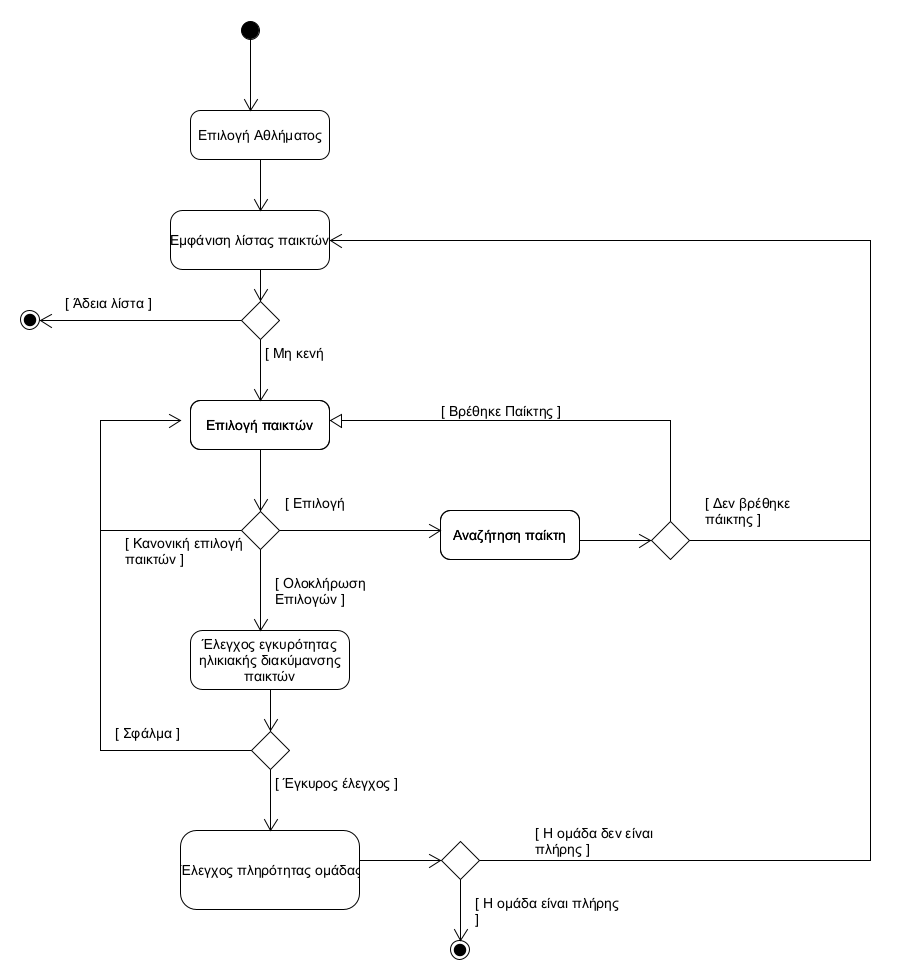
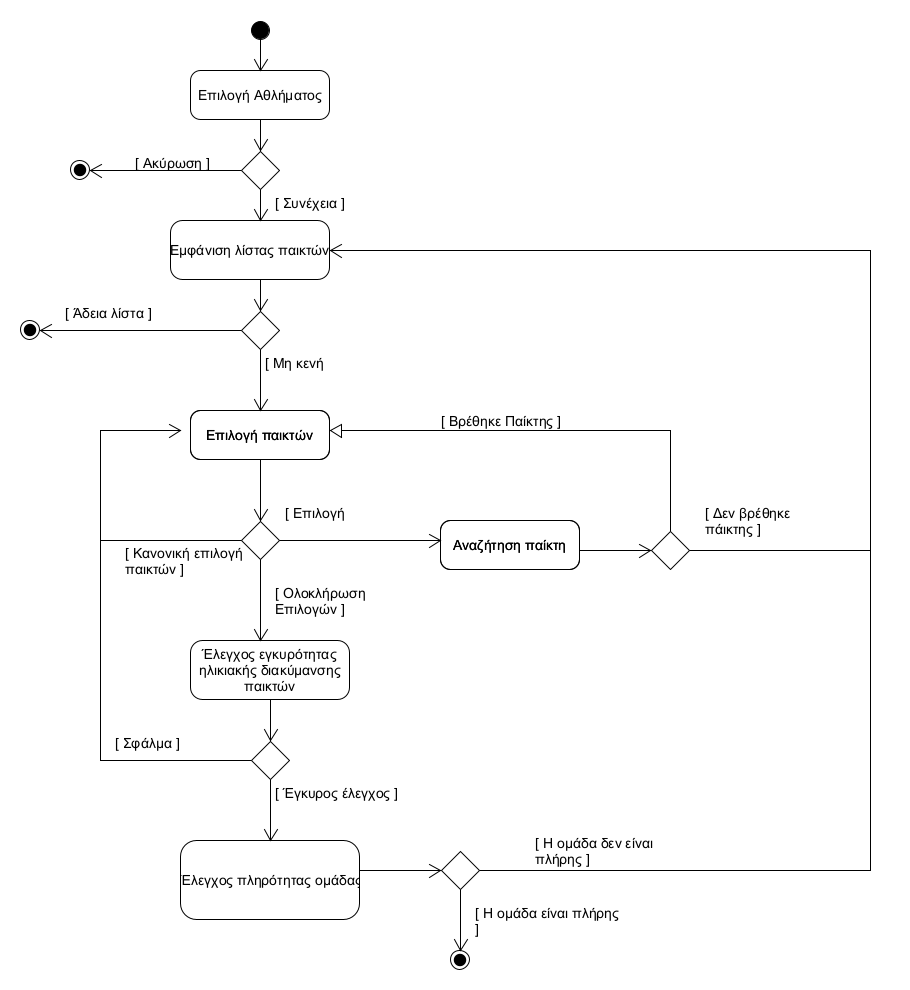
modify some scenarios

diff --git a/docs/markdown/uc9-team-creation.md b/docs/markdown/uc9-team-creation.md
@@ -27,6 +27,9 @@
 
 **Εναλλακτικές Ροές**
 
+*1α. Ο αντιπρόσωπος επιλέγει ακύρωση, στην δημιουργία ομάδας.*
+1. Η περίπτωση χρήσης τερματίζει.
+
 *2α. Η λίστα είναι άδεια.*
 1. Το σύστημα εμφανίζει μήνυμα λάθους στον αντιπρόσωπο και η περίπτωση χρήσης τερματίζει.
 
@@ -59,6 +62,9 @@
 
 **Εναλλακτικές Ροές**
 
+*1α. Ο αντιπρόσωπος επιλέγει ακύρωση, στην δημιουργία ομάδας.*
+1. Η περίπτωση χρήσης τερματίζει.
+
 *2α. Υπάρχει ίδιο όνομα.*
 1. Το σύστημα εμφανίζει μήνυμα λάθους στο διοργανωτή.
 2. Τον κατευθύνει στο Βήμα 1.
@@ -71,4 +77,4 @@
 
 ### Διάγραμμα δραστηριοτήτων για σενάριο χρήσης "Εισαγωγή στοιχείων ομάδας" ( 9Β ).
 
-![Διάγραμμα δραστηριοτήτων σενάριο χρήσης 9Β](uml/requirements/uc9_A.png)
+![Διάγραμμα δραστηριοτήτων σενάριο χρήσης 9Β](uml/requirements/uc9_B.png)

diff --git a/docs/markdown/uc5-tournament-conduction.md b/docs/markdown/uc5-tournament-conduction.md
@@ -22,6 +22,9 @@
 
 **Εναλλακτικές Ροές**
 
+*1α. Ο αντιπρόσωπος επιλέγει ακύρωση, στην διεξαγωγή διοργάνωσης.*
+1. Η περίπτωση χρήσης τερματίζει.
+
 *6α. Μη συμβατό χρονικό διάστημα.*
 1. Το σύστημα εμφανίζει μήνυμα λάθους στο διοργανωτή, σε περίπτωση που επιλέξει μόνο ΜΙΑ μέρα ως χρονικό διάστημα,
 2. Το σύστημα ξαναζητάει εισαγωγή νέου έγκυρου χρονικού διαστήματος. 

diff --git a/docs/markdown/uc10-player-search.md b/docs/markdown/uc10-player-search.md
@@ -22,6 +22,9 @@
 
 **Εναλλακτικές Ροές**
 
+*1α. Ο αντιπρόσωπος επιλέγει ακύρωση, στην αναζήτηση παικτών.*
+1. Η περίπτωση χρήσης τερματίζει.
+
 *2α. Η λίστα με τους διαθέσιμους παίκτες είναι άδεια.*
 1. Το σύστημα εμφανίζει μήνυμα σφάλματος και η περίπτωση χρήσης τερματίζει.
 

diff --git a/docs/markdown/uc8-join-tournament.md b/docs/markdown/uc8-join-tournament.md
@@ -22,6 +22,9 @@
 
 **Εναλλακτικές Ροές**
 
+*3α. Ο αντιπρόσωπος επιλέγει ακύρωση, στην συμμετοχή στην διοργάνωση.*
+1. Η περίπτωση χρήσης τερματίζει.
+
 *4α. Η λίστα είναι άδεια*
 1. Το σύστημα εμφανίζει μήνυμα σφάλματος.
 2. Πήγαινε στο Βήμα 2. 
